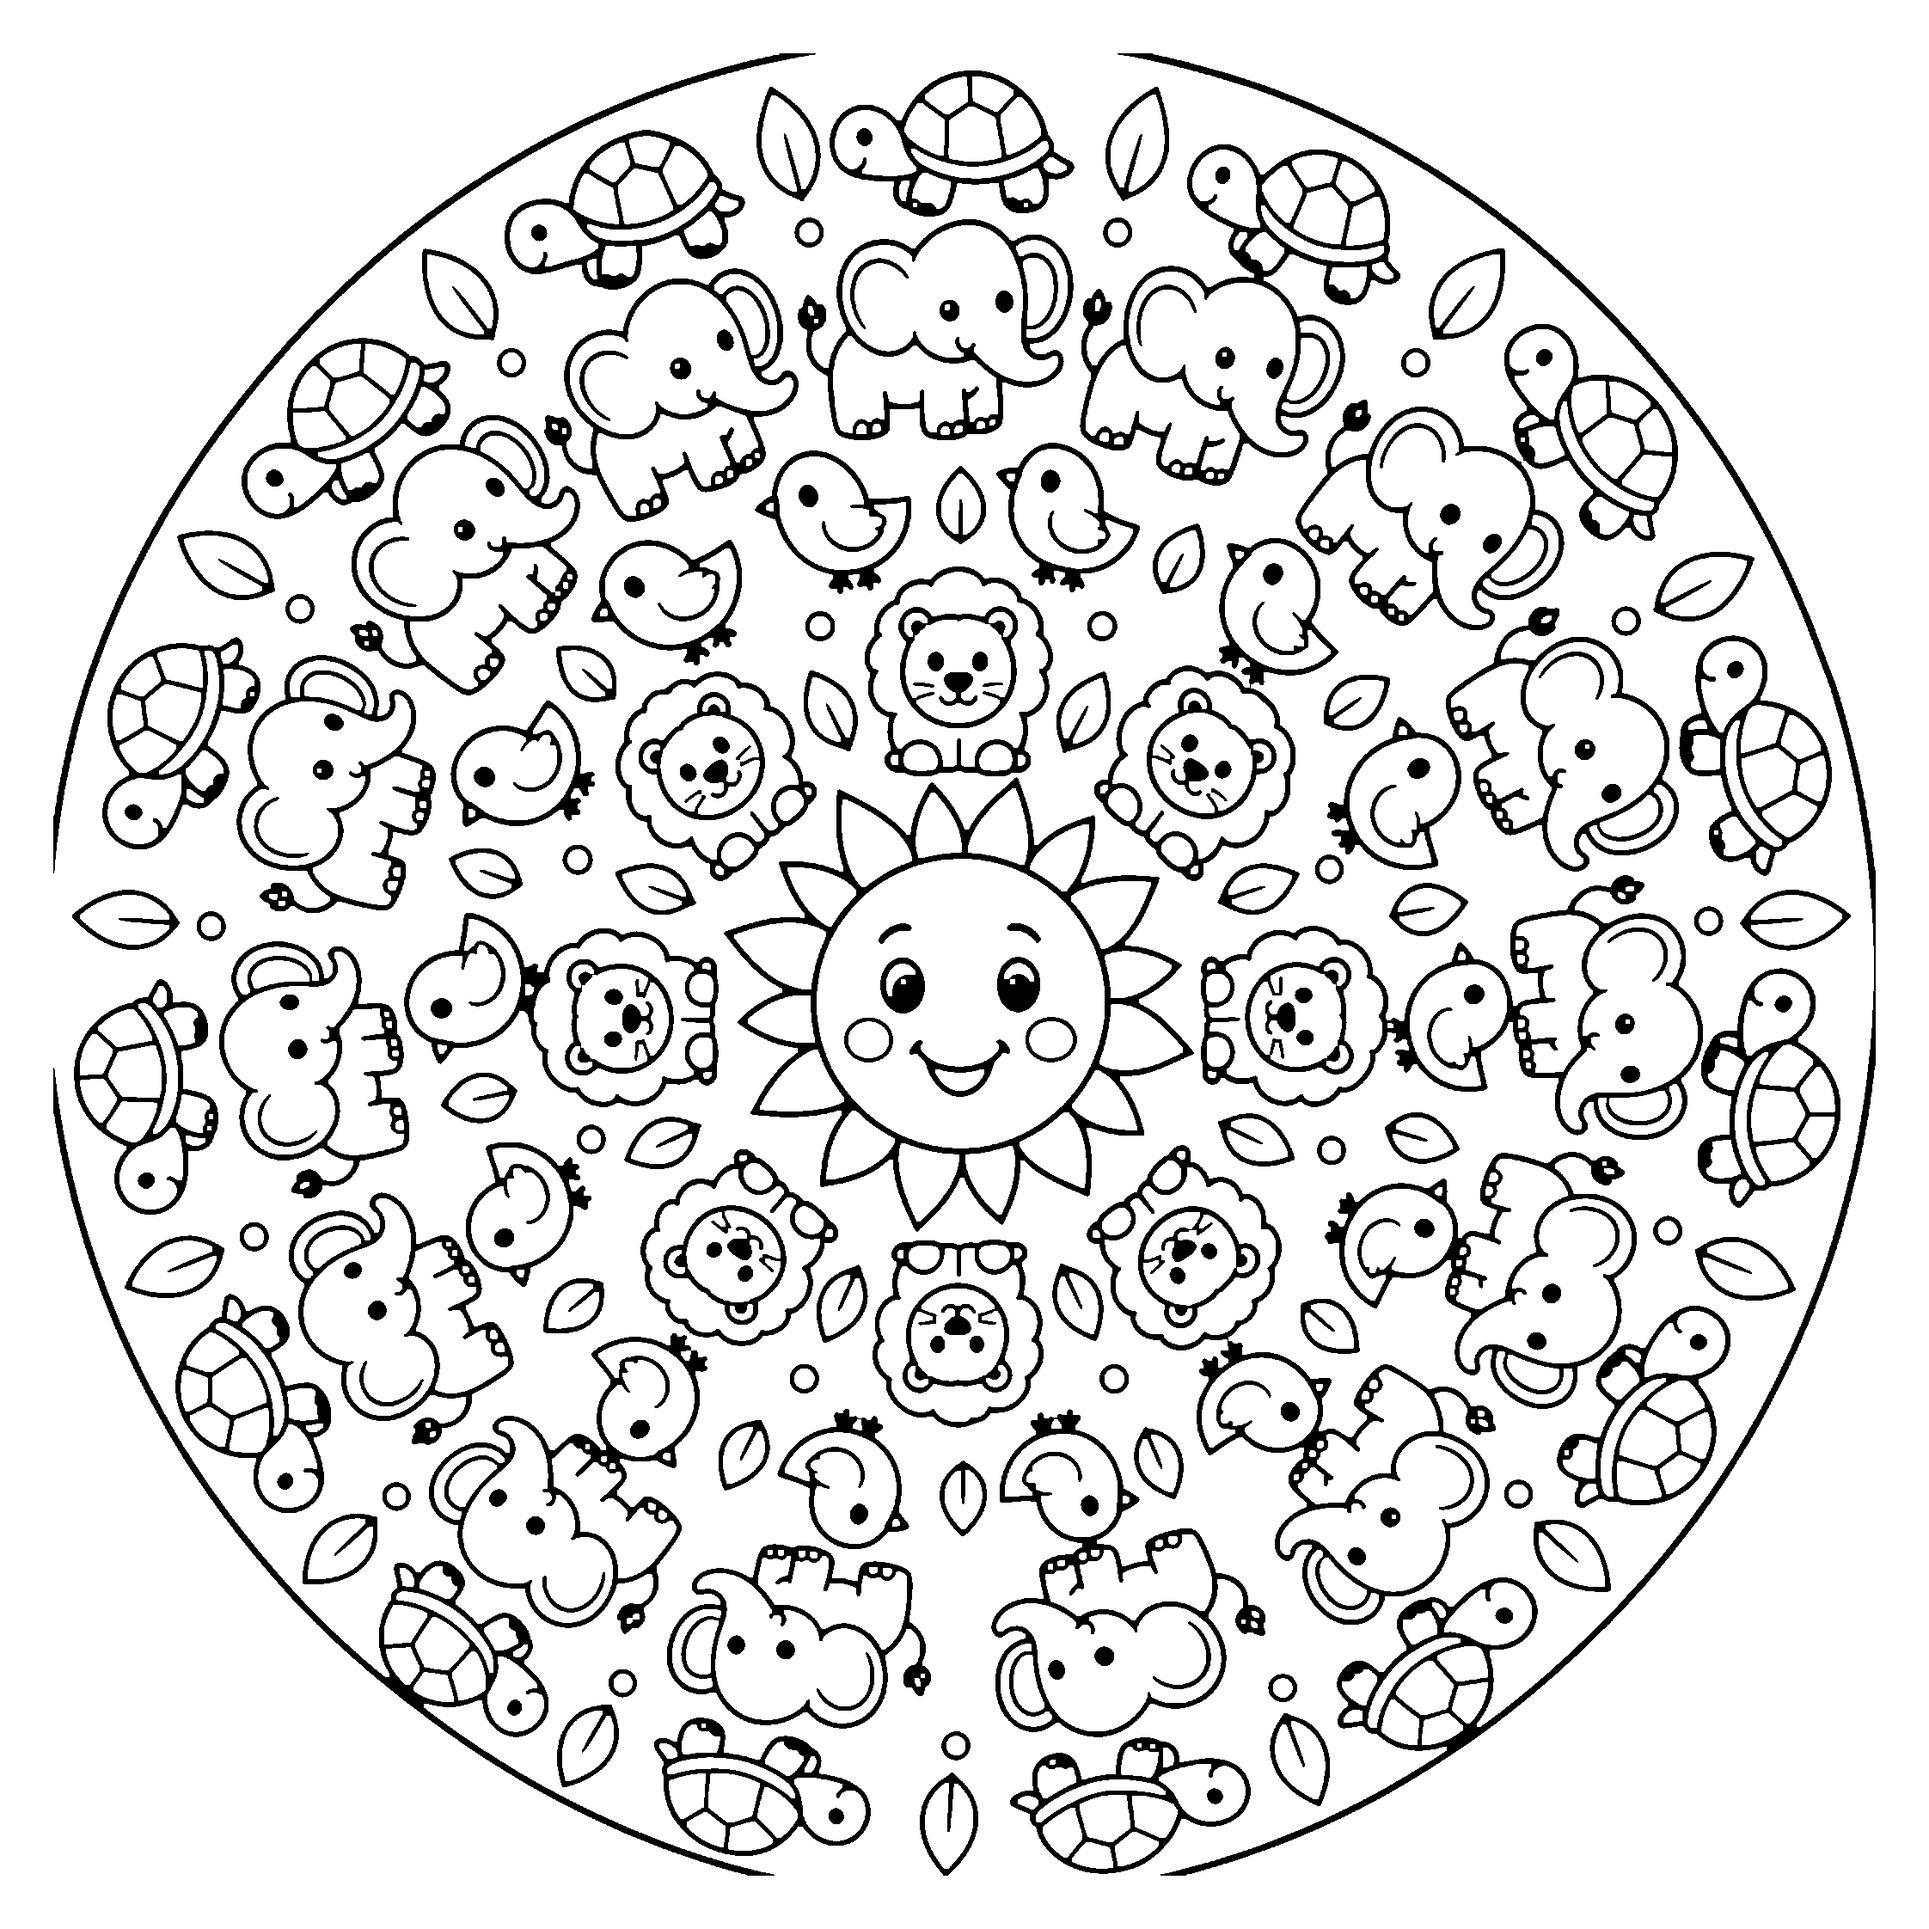
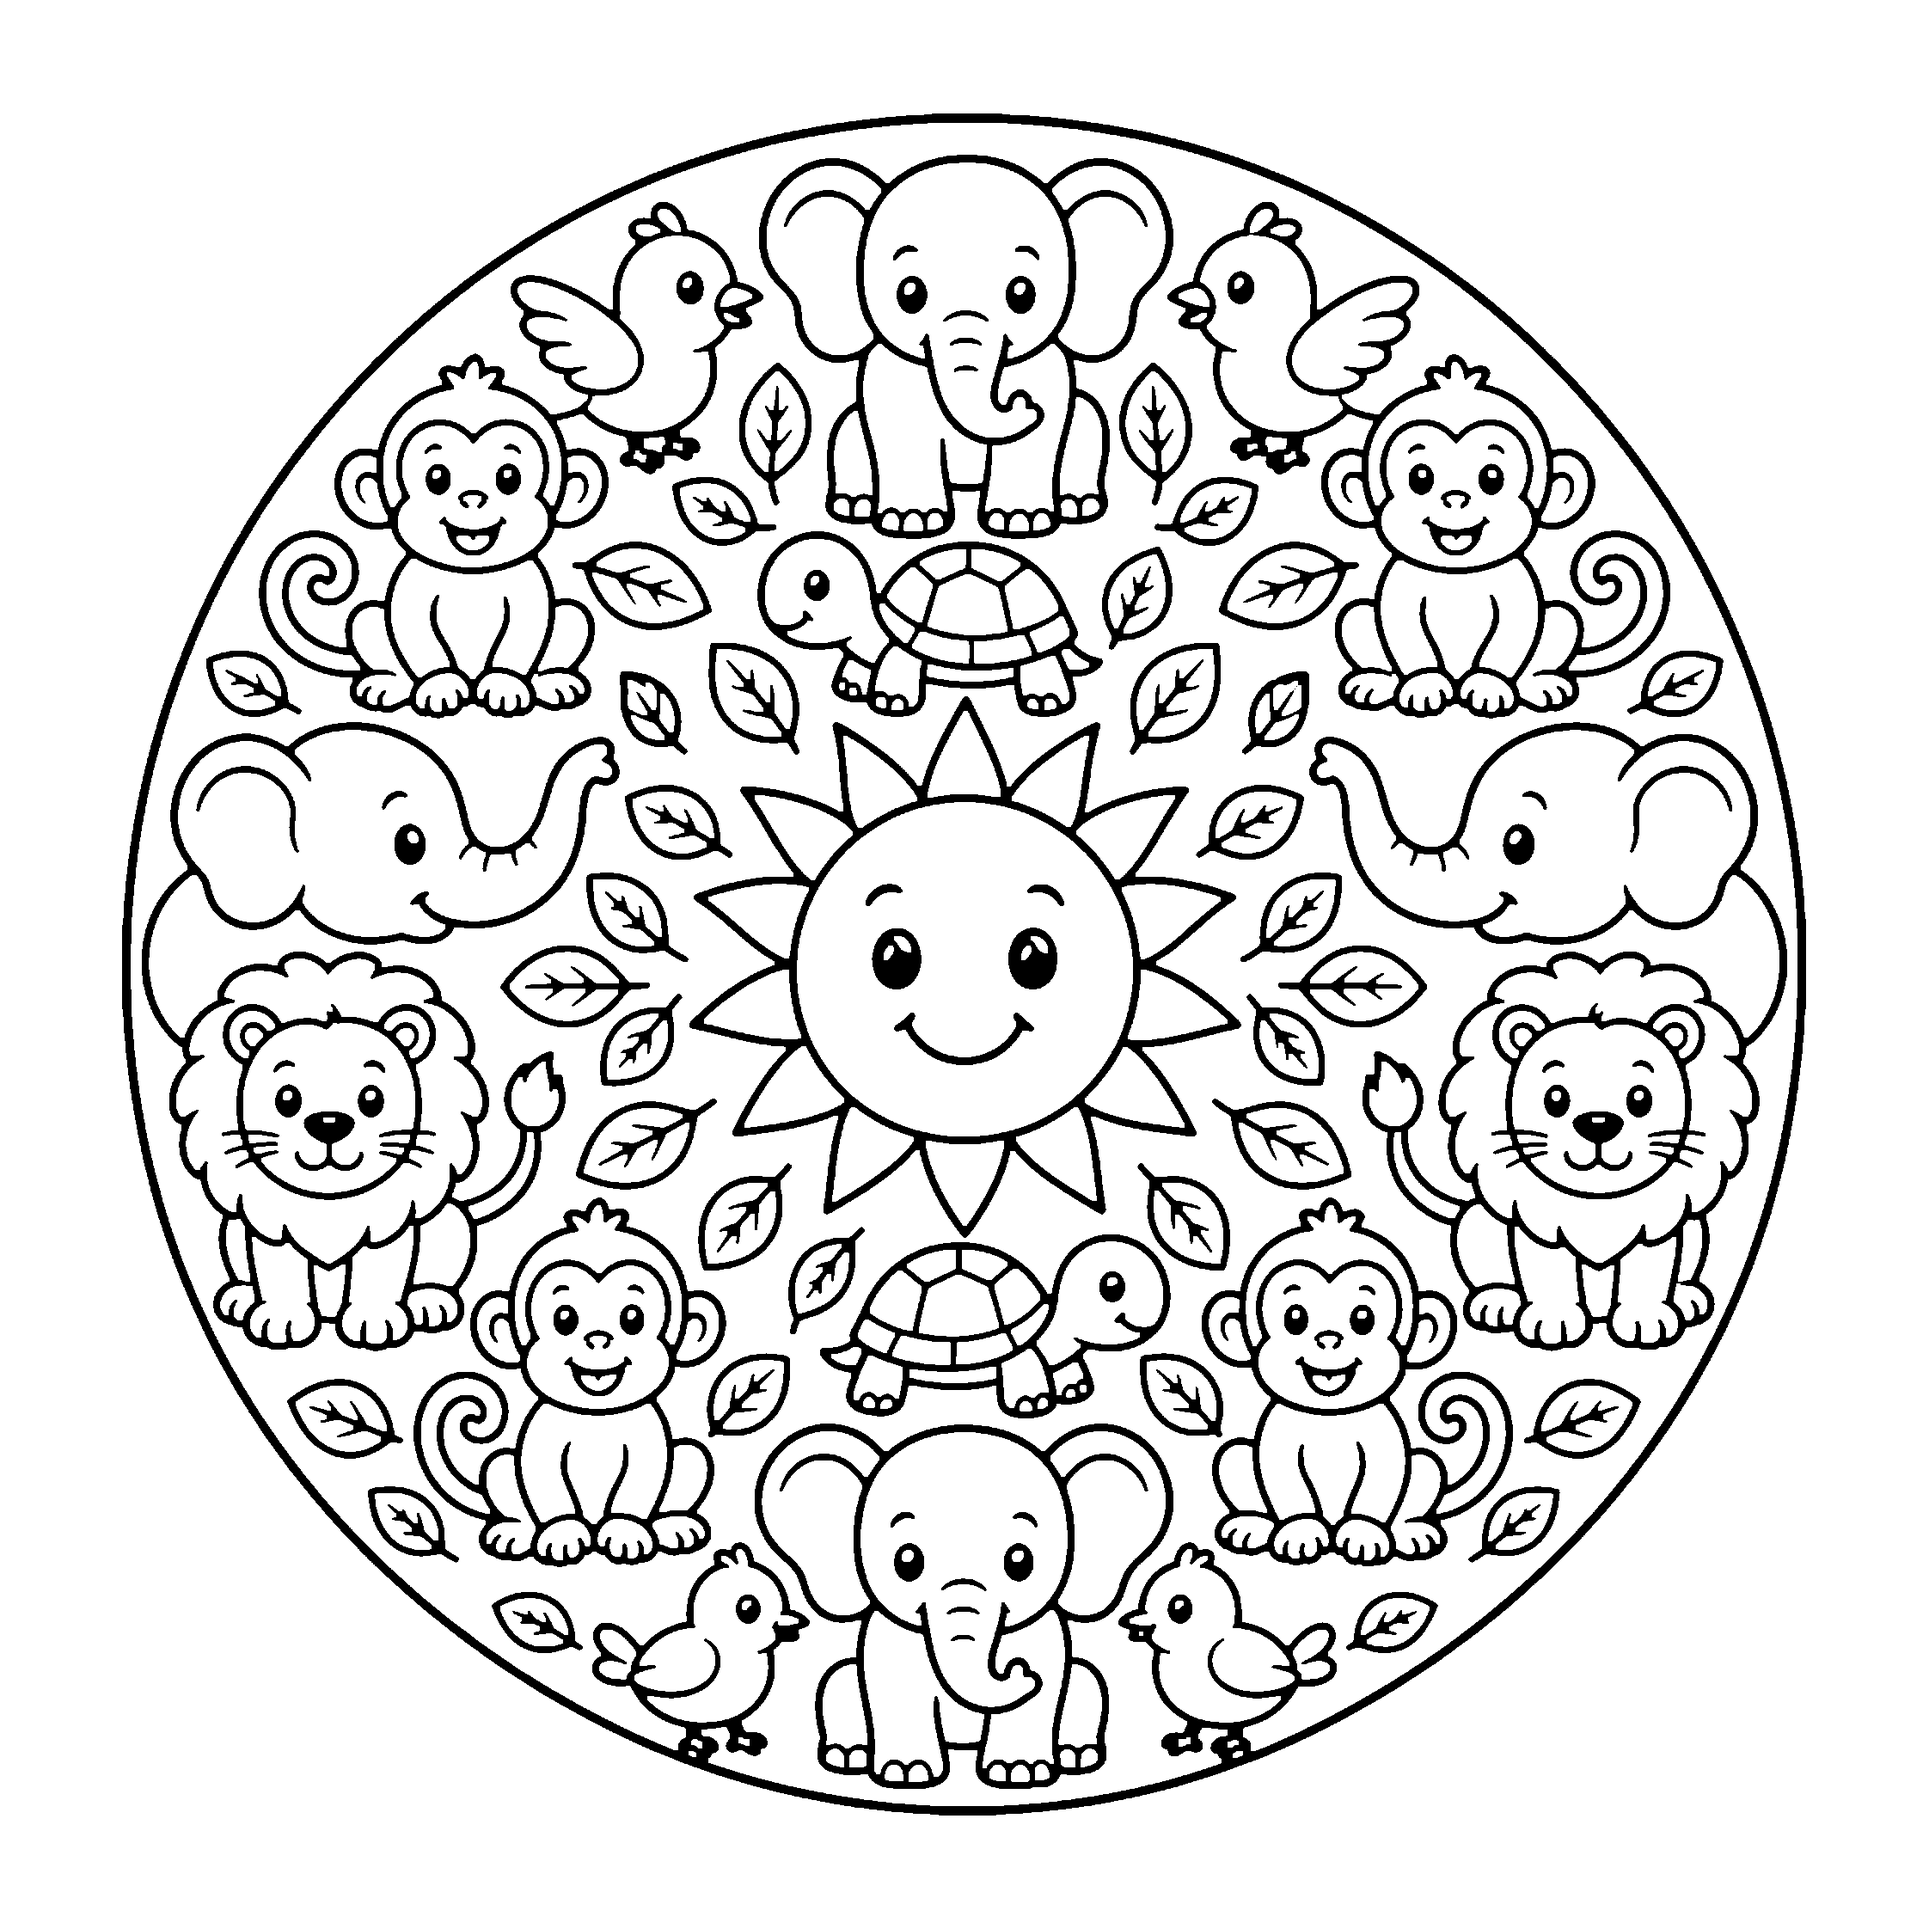
fix(mandalas): player con rieles laterales (canvas entra en el alto) + mándala 2 sin cortar
Player para pintar: reestructurado a rieles laterales — botones (Otra/Deshacer/
Limpiar/Guardar) a la IZQUIERDA, colores a la DERECHA, canvas centrado. El canvas usa
resolución interna fija (900) y el CSS lo ajusta con max-width/height:100% dentro de un
layout de alto completo (100dvh − header), así NO excede el alto de la pantalla (antes la
imagen se pasaba de la hoja y se cortaba). Pedido de Pablo.

Mándala 2 (Animales): la fuente IA tenía el círculo tocando el borde superior → se veía
cortado. Regenerada con margen (círculo completo dentro del marco) y re-limpiada con más
padding (verificado: sin tinta en ningún borde).

Claude-Session: https://claude.ai/code/session_01TCHUMbo3tfF67vveHZr6ro

Changed region(s): [[0.0312, 0.0312, 0.967, 0.967], [0.967, 0.4367, 0.9982, 0.4679]]

diff --git a/mandalas_player.html b/mandalas_player.html
@@ -14,10 +14,11 @@
   body{
     font-family:"Trebuchet MS","Segoe UI",system-ui,sans-serif; color:var(--ink);
     background:var(--bg); overscroll-behavior:none;
+    height:100dvh; display:flex; flex-direction:column;
   }
   header{
-    display:flex; align-items:center; gap:12px; padding:14px 16px;
-    background:var(--card); border-bottom:1px solid var(--line); position:sticky; top:0; z-index:5;
+    display:flex; align-items:center; gap:12px; padding:12px 16px; flex:0 0 auto;
+    background:var(--card); border-bottom:1px solid var(--line); z-index:5;
   }
   header h1{font-size:19px; margin:0; font-weight:800; letter-spacing:.2px; flex:1;
     white-space:nowrap; overflow:hidden; text-overflow:ellipsis}
@@ -27,7 +28,7 @@
   }
   .btn.ac{background:var(--ac); color:#fff}
   .btn.gh{background:transparent; border:1.5px solid var(--line)}
-  .wrap{max-width:1000px; margin:0 auto; padding:16px}
+  .wrap{flex:1 1 auto; min-height:0; overflow:auto; max-width:1100px; margin:0 auto; width:100%; padding:14px}
   /* galería */
   .grid{display:grid; grid-template-columns:repeat(auto-fill,minmax(150px,1fr)); gap:16px}
   .card{
@@ -39,21 +40,26 @@
   .card .dif{margin-top:8px; font-size:13px; color:var(--muted); font-weight:700}
   .card .stars{color:var(--ac); letter-spacing:2px; font-size:13px}
   .intro{color:var(--muted); font-size:15px; margin:2px 0 16px}
-  /* pintar */
+  /* pintar: rieles laterales (botones izq · colores der) + canvas que entra en el alto */
   #paint{display:none}
-  #paint.on{display:block}
+  #paint.on{display:flex; height:100%}
   #gallery.off{display:none}
-  .canvasbox{display:flex; justify-content:center; background:var(--card);
-    border:1px solid var(--line); border-radius:16px; padding:10px; box-shadow:var(--shadow)}
-  canvas{max-width:100%; touch-action:none; border-radius:8px; cursor:crosshair}
-  .palette{display:flex; flex-wrap:wrap; gap:10px; justify-content:center; margin:14px 0}
-  .swatch{width:44px; height:44px; border-radius:50%; border:3px solid #fff;
+  .paint-layout{display:flex; gap:10px; width:100%; height:100%; align-items:stretch}
+  .rail{display:flex; flex-direction:column; gap:8px; flex:0 0 auto; overflow-y:auto; padding:2px; align-items:center}
+  .canvasbox{flex:1 1 auto; min-width:0; display:flex; align-items:center; justify-content:center;
+    background:var(--card); border:1px solid var(--line); border-radius:16px; padding:8px; box-shadow:var(--shadow)}
+  canvas{max-width:100%; max-height:100%; touch-action:none; border-radius:8px; cursor:crosshair}
+  .tbtn{width:60px; min-height:54px; border-radius:14px; border:1.5px solid var(--line);
+    background:var(--card); color:var(--ink); cursor:pointer; padding:6px 2px;
+    display:flex; flex-direction:column; align-items:center; justify-content:center; gap:2px}
+  .tbtn span{font-size:20px; line-height:1}
+  .tbtn small{font-size:9px; font-weight:700}
+  .tbtn.ac{background:var(--ac); color:#fff; border-color:var(--ac)}
+  .swatch{width:46px; height:46px; border-radius:50%; border:3px solid #fff; flex:0 0 auto;
     box-shadow:0 0 0 1.5px var(--line); cursor:pointer; padding:0}
   .swatch.on{box-shadow:0 0 0 3px var(--ac); transform:scale(1.08)}
   .swatch.eraser{background:#fff !important; position:relative}
   .swatch.eraser::after{content:"⌫"; position:absolute; inset:0; display:grid; place-items:center; color:#b9ad9c}
-  .tools{display:flex; gap:10px; flex-wrap:wrap; justify-content:center}
-  .hint{text-align:center; color:var(--muted); font-size:14px; margin:10px 0 2px}
   @media (prefers-color-scheme:dark){
     :root{--bg:#221f1c; --card:#2c2825; --ink:#efe7dc; --muted:#a89e93; --line:#3c352f}
   }
@@ -72,15 +78,16 @@
   </section>
 
   <section id="paint">
-    <div class="tools" style="margin-bottom:12px">
-      <button class="btn gh" id="volver">← Elegir otra</button>
-      <button class="btn gh" id="undo">↩ Deshacer</button>
-      <button class="btn gh" id="limpiar">🧽 Limpiar</button>
-      <button class="btn ac" id="guardar">⬇ Guardar dibujo</button>
+    <div class="paint-layout">
+      <div class="rail rail-left">
+        <button class="tbtn" id="volver" title="Elegir otra mándala"><span>←</span><small>Otra</small></button>
+        <button class="tbtn" id="undo" title="Deshacer"><span>↩</span><small>Deshacer</small></button>
+        <button class="tbtn" id="limpiar" title="Limpiar"><span>🧽</span><small>Limpiar</small></button>
+        <button class="tbtn ac" id="guardar" title="Guardar dibujo"><span>⬇</span><small>Guardar</small></button>
+      </div>
+      <div class="canvasbox"><canvas id="lienzo"></canvas></div>
+      <div class="rail rail-right" id="palette"></div>
     </div>
-    <div class="canvasbox"><canvas id="lienzo"></canvas></div>
-    <div class="palette" id="palette"></div>
-    <p class="hint">Tocá una zona para pintarla · el blanco (⌫) borra</p>
   </section>
 </div>
 

diff --git a/mandalas_player.js b/mandalas_player.js
@@ -83,12 +83,12 @@
   function dibujarBase(cb) {
     var im = new Image();
     im.onload = function () {
-      var maxW = Math.min(920, (cv.parentElement.clientWidth || 900) - 24);
-      var esc = Math.min(1, maxW / im.width);
-      cv.width = Math.round(im.width * esc);
-      cv.height = Math.round(im.height * esc);
-      cx.fillStyle = "#fff"; cx.fillRect(0, 0, cv.width, cv.height);
-      cx.drawImage(im, 0, 0, cv.width, cv.height);
+      // Resolución INTERNA fija (cuadrada) → el flood-fill es estable y el CSS
+      // (max-width/height:100%) ajusta el display para que entre en el alto de la pantalla.
+      var S = 900;
+      cv.width = S; cv.height = S;
+      cx.fillStyle = "#fff"; cx.fillRect(0, 0, S, S);
+      cx.drawImage(im, 0, 0, S, S);
       if (cb) cb();
     };
     im.src = MANDALAS[idxActual].src;
